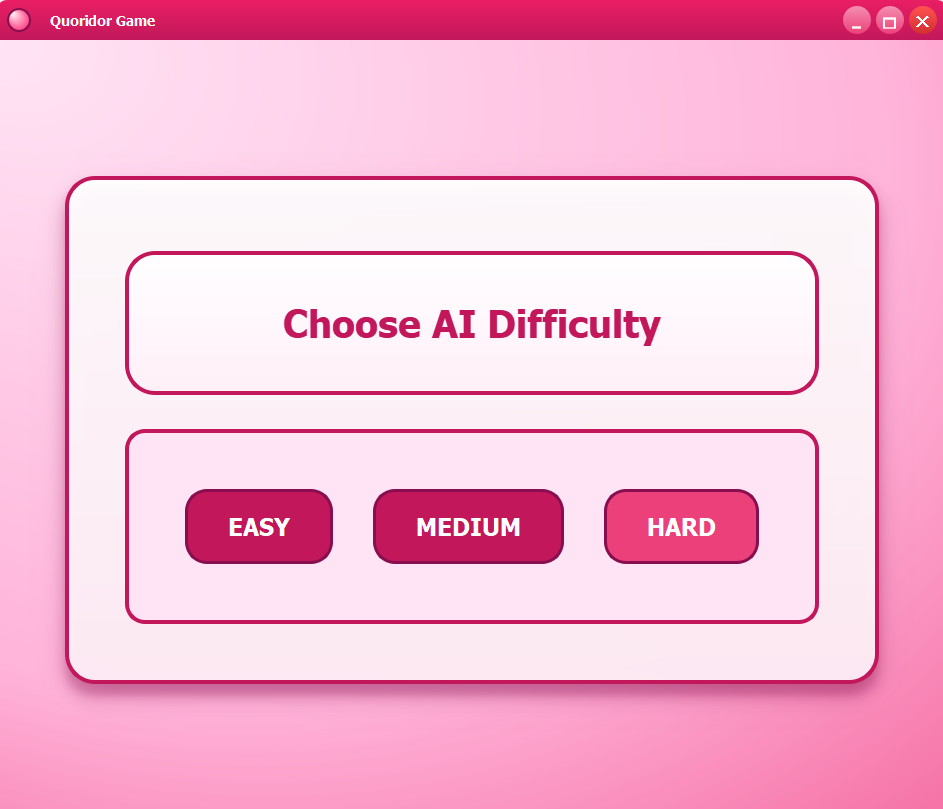
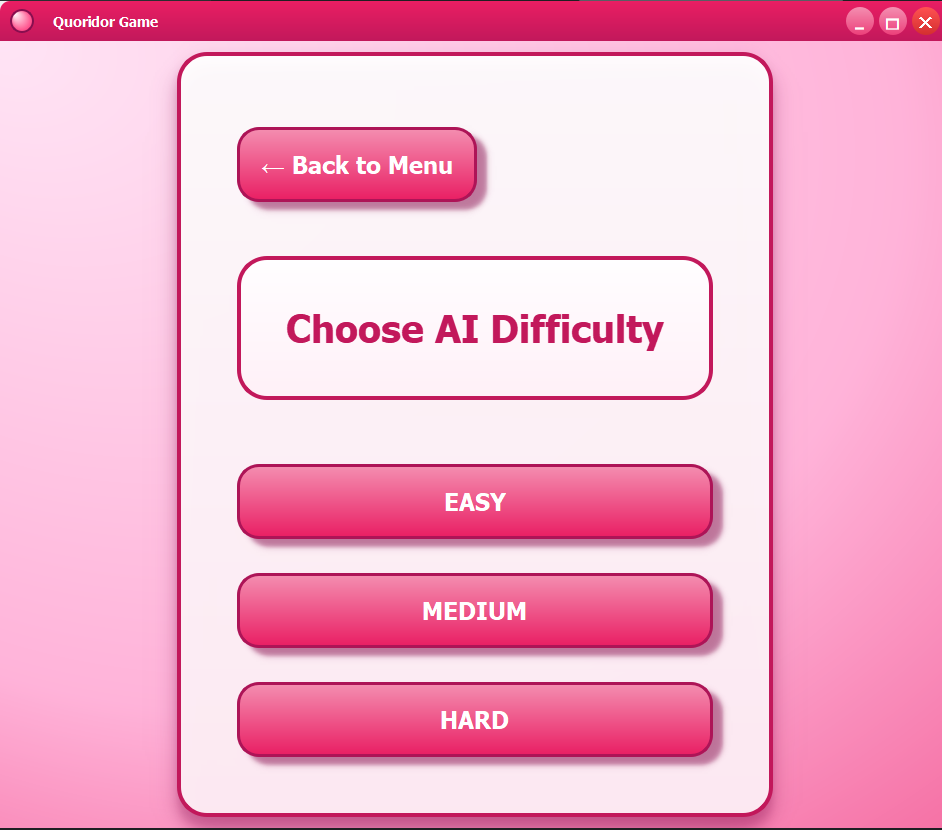
Fixing files

diff --git a/GUI/tempCodeRunnerFile.py b/GUI/tempCodeRunnerFile.py
@@ -269,7 +269,7 @@ class MainWindow(QMainWindow):
         }
         """
         btn.setStyleSheet(button_style)
-        self.addShadow(btn, blur=25, x=10, y=8)
+        self.addShadow(btn, blur=10, x=10, y=8)
 
     # ===== Utilities =====
     def addShadow(self, widget, blur=20, x=0, y=6):
@@ -301,7 +301,10 @@ class MainWindow(QMainWindow):
         # ===== Back Button (same logic as 3rd screen) =====
         back_btn = QPushButton("← Back to Menu")
         back_btn.setFixedWidth(240)
+
+
         self.applyMainButtonStyle(back_btn)
+
         back_btn.clicked.connect(self.initUI)
 
         # ===== Title =====
